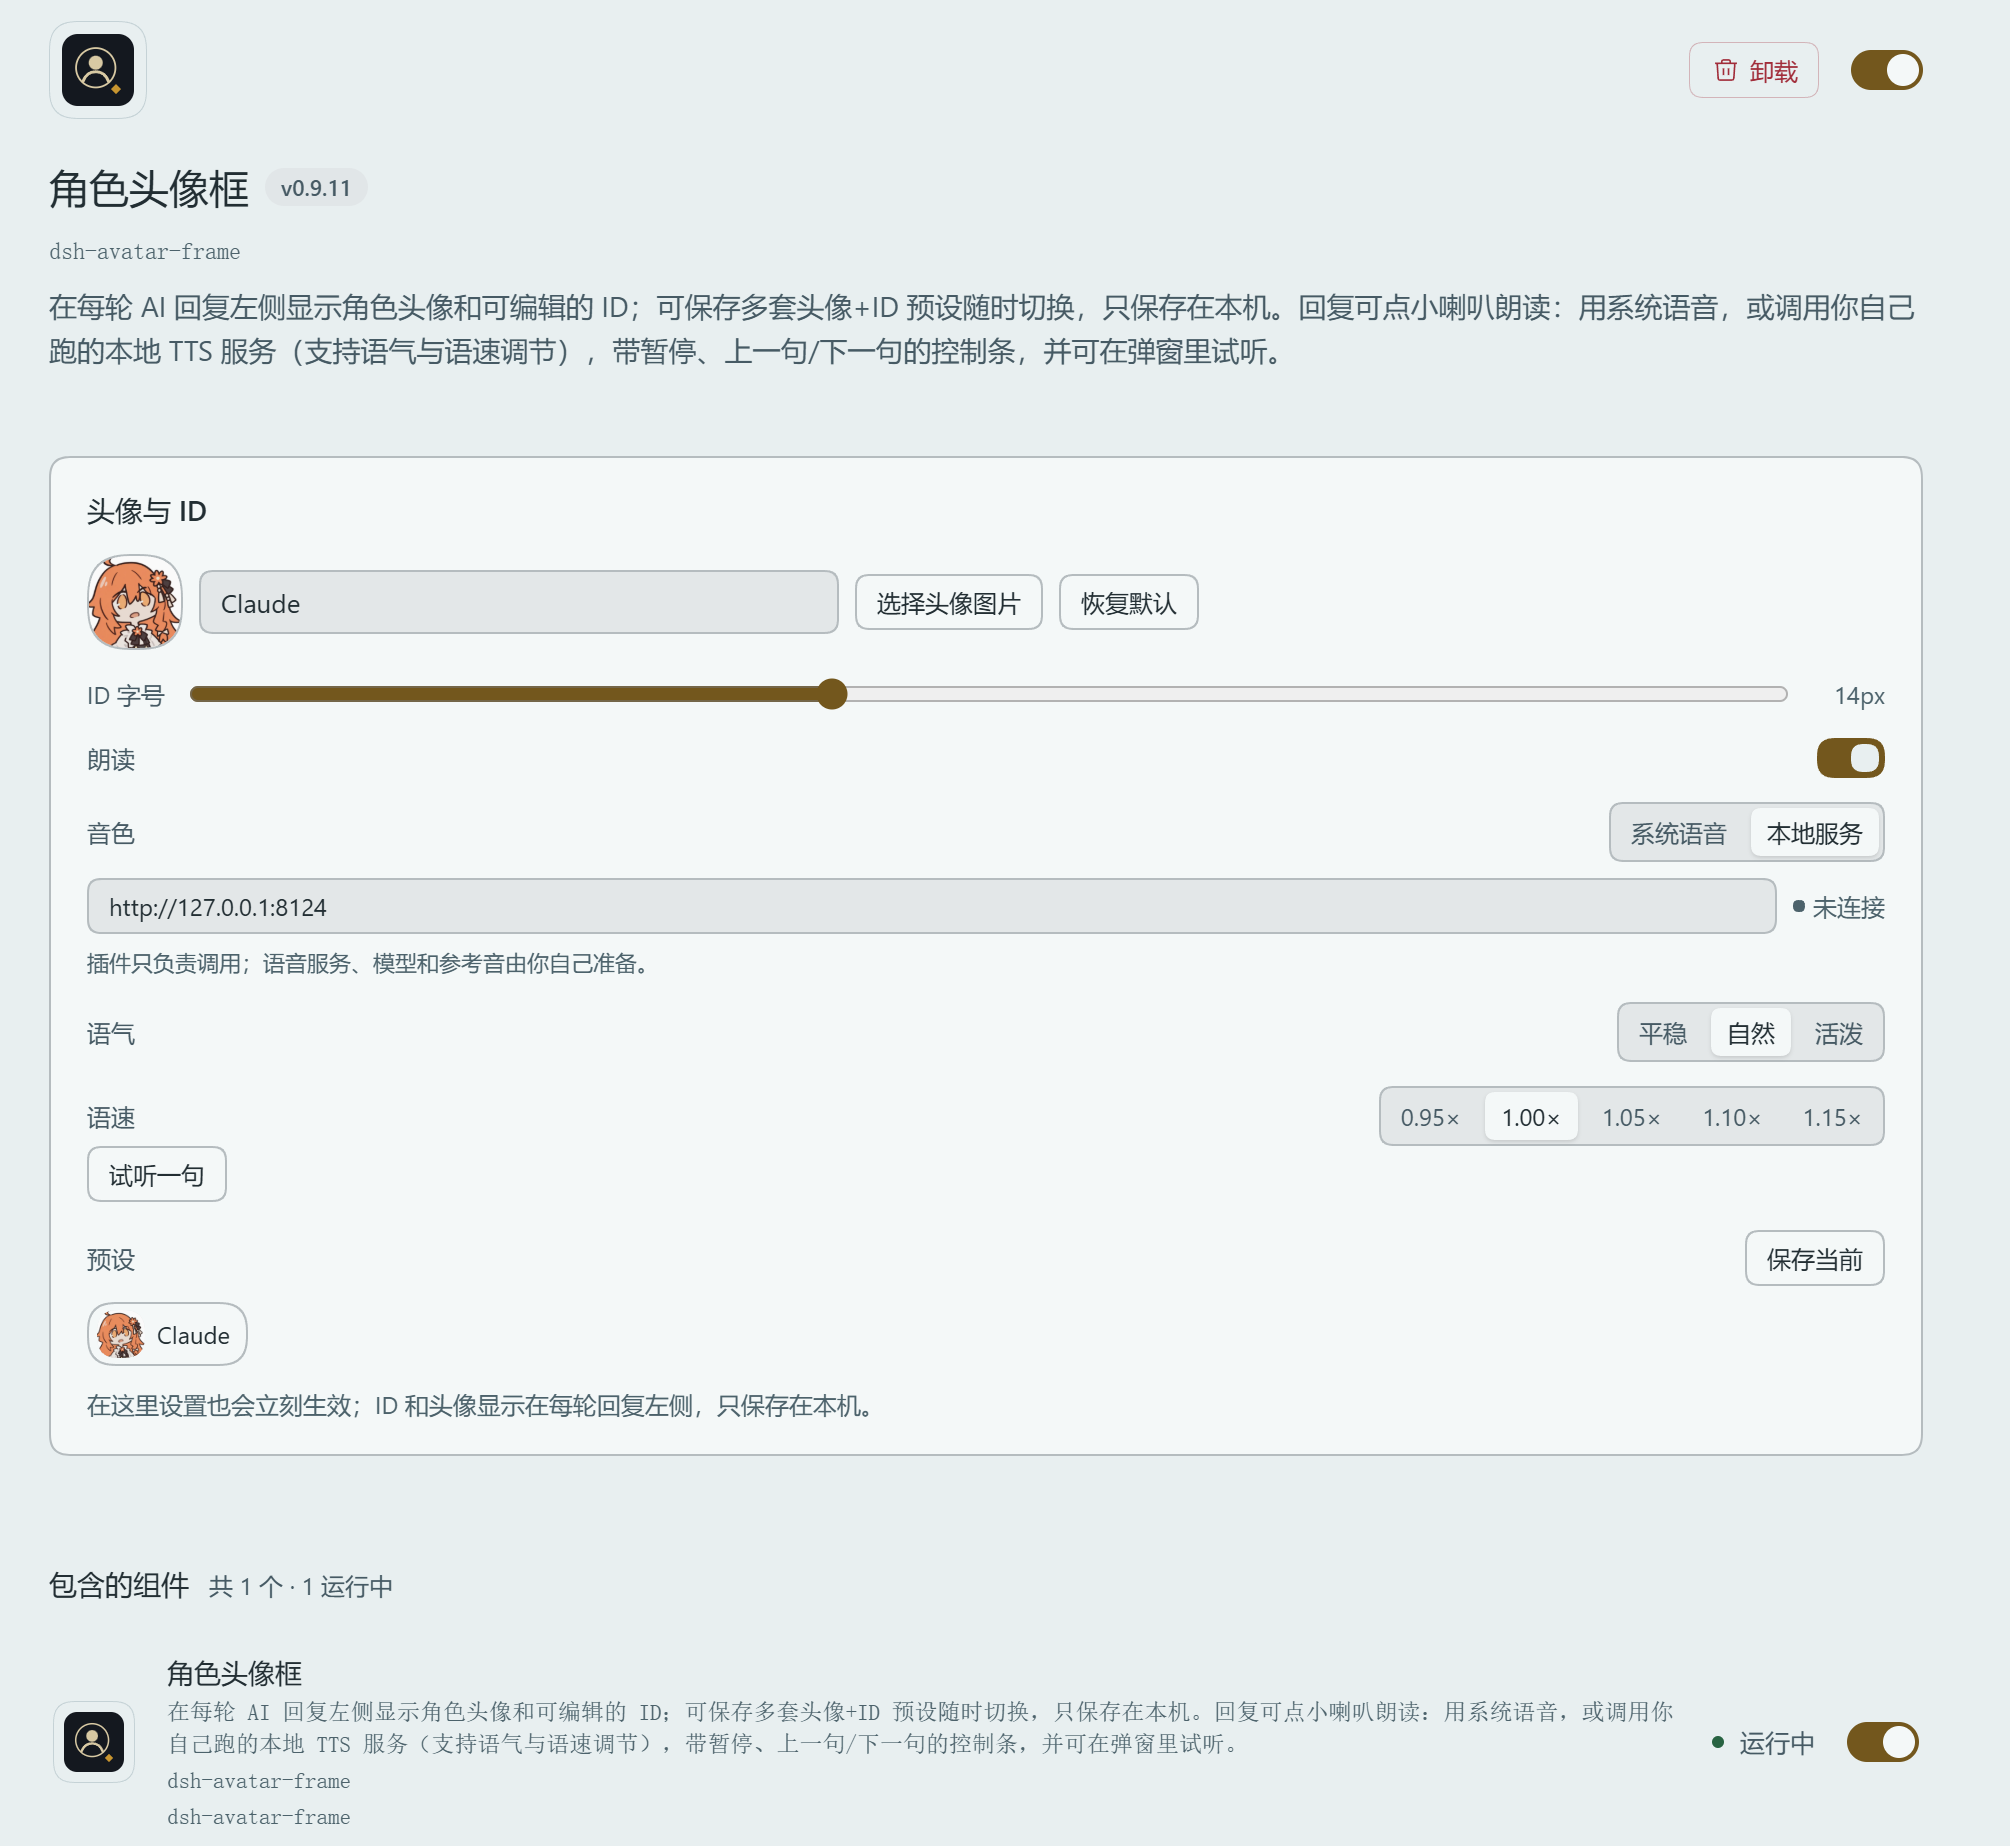
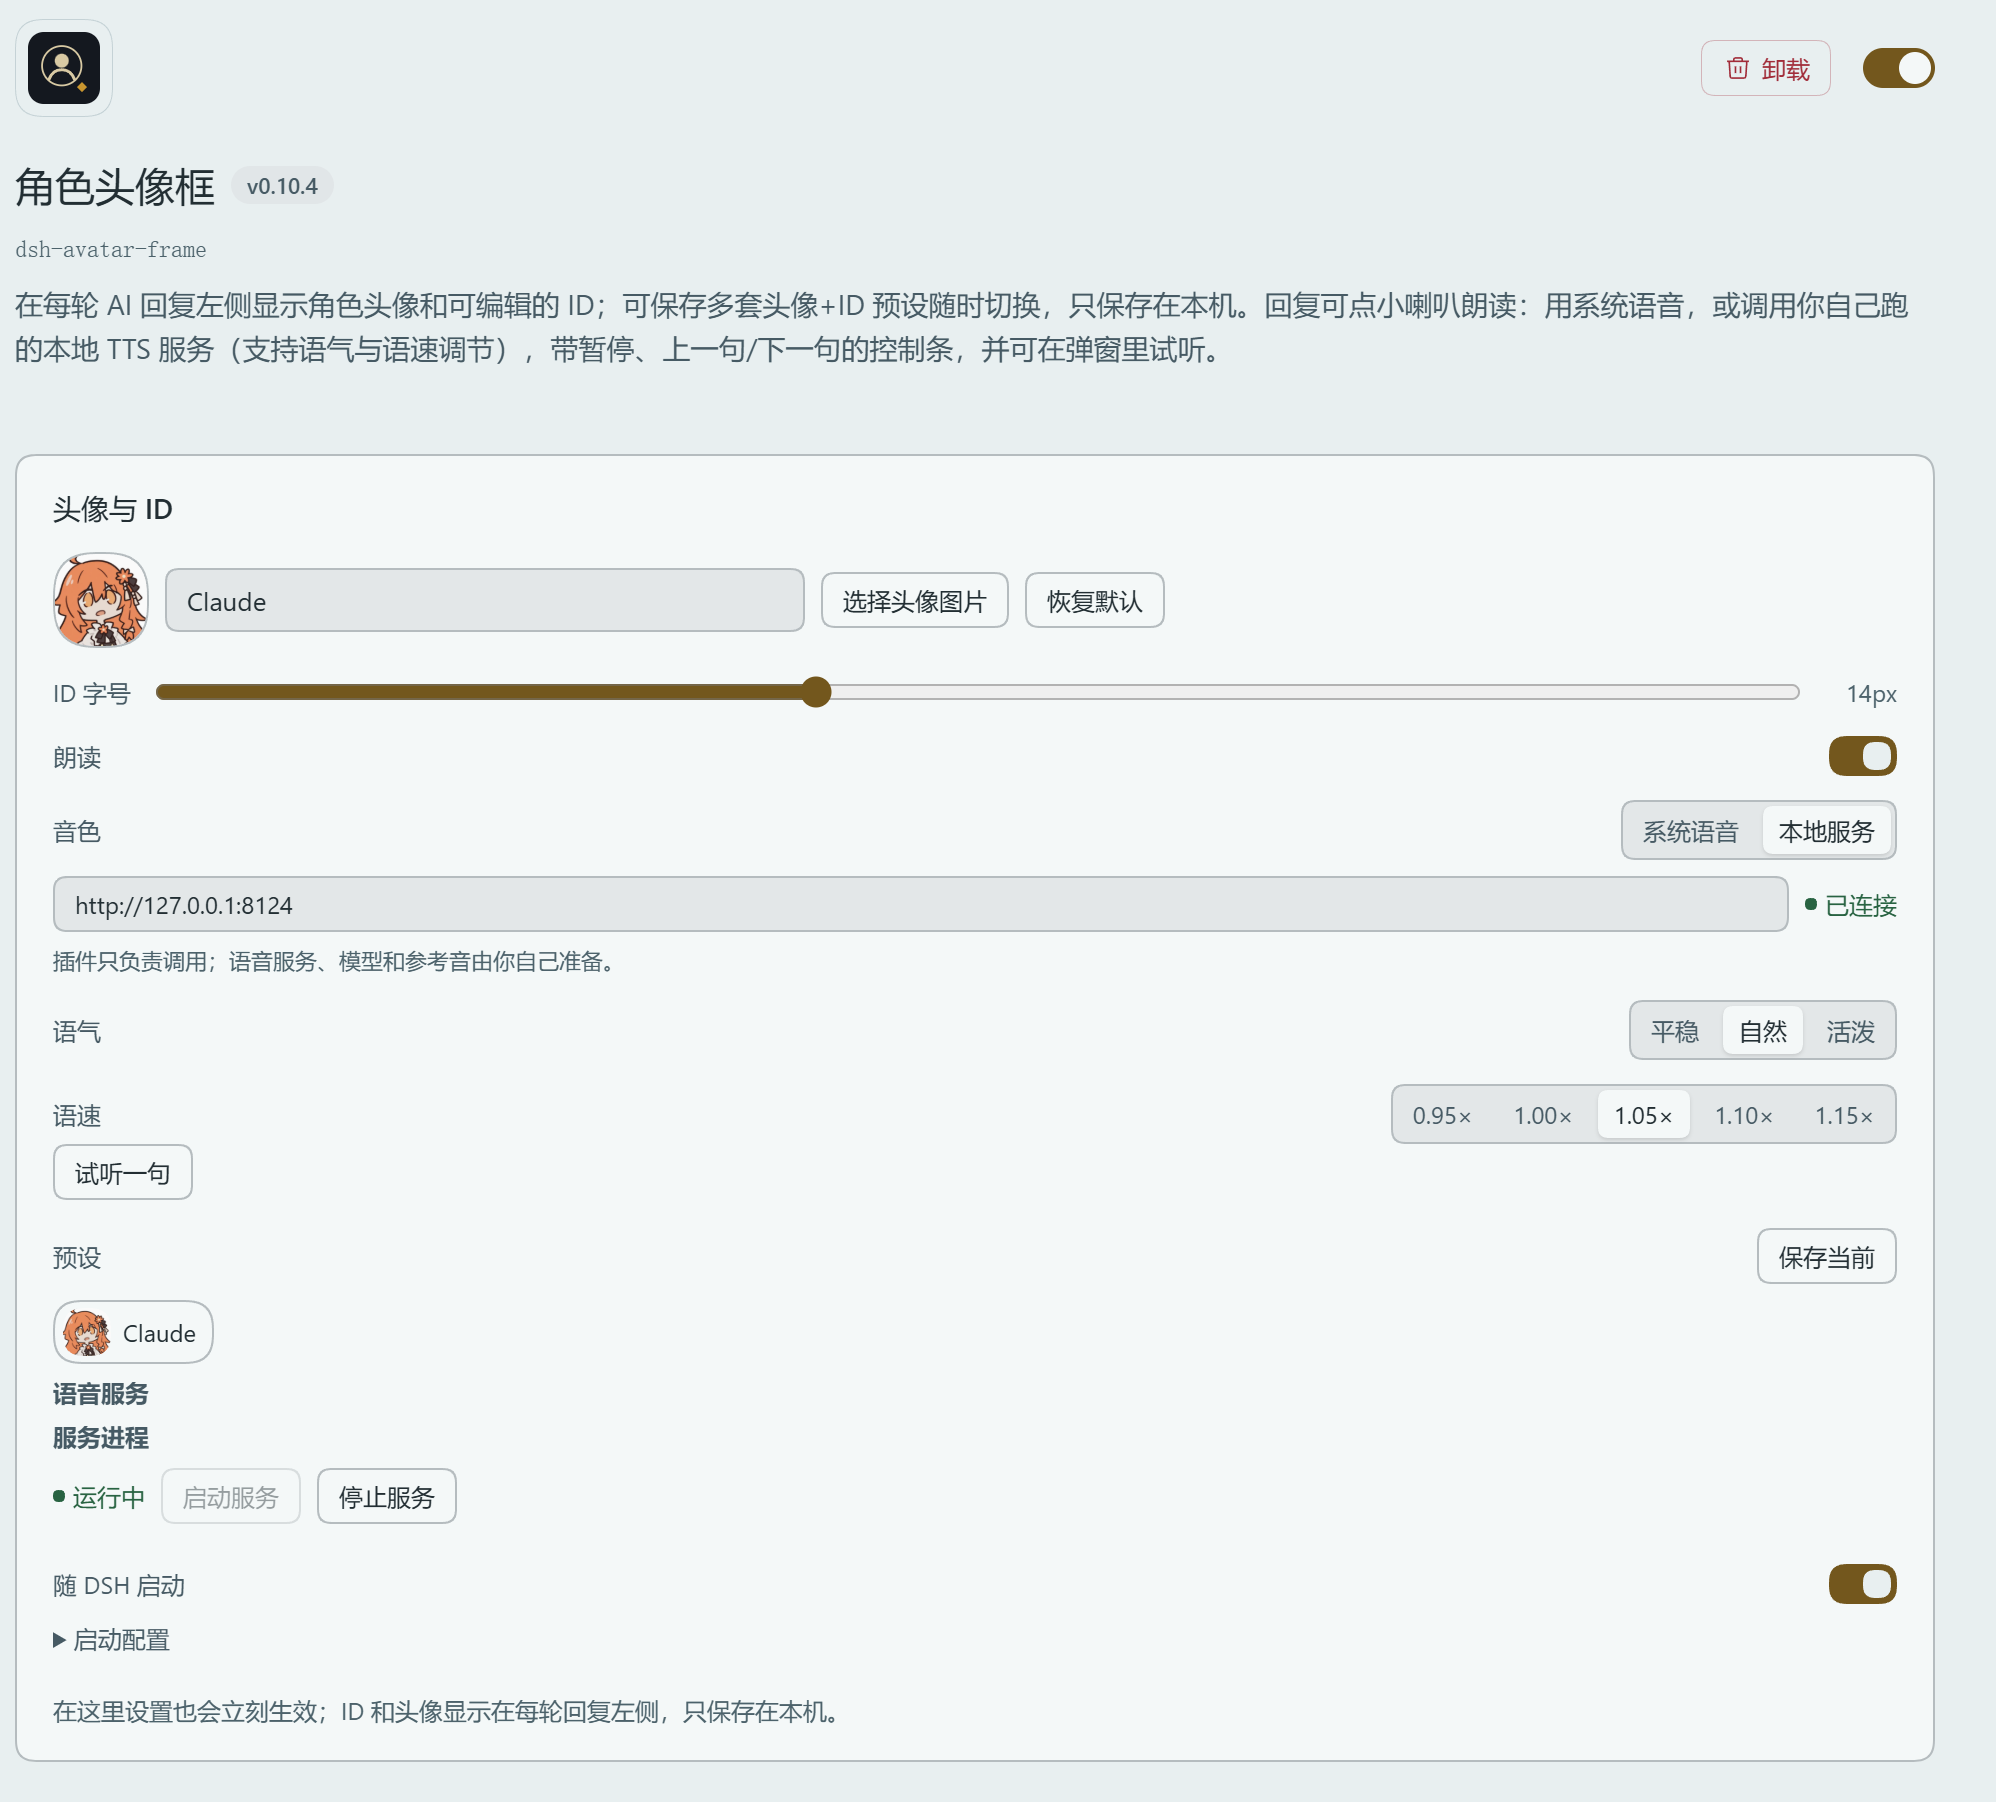
docs: refresh the detail-page screenshot and add the settings page
- bundle.png 更新为含语音服务区块的详情页
- settings.png 新增「设置 → 角色头像」整页
- README 引用与截图目录说明同步

diff --git a/README.md b/README.md
@@ -50,6 +50,8 @@ git clone https://github.com/vioeveann/dsh-avatar-frame.git
 
 然后同上，把插件管理指向克隆下来的目录。
 
+![插件详情页](docs/images/bundle.png)
+
 ## 使用
 
 1. 点任意一轮回复左侧的**头像**，或「已完成」那一行的 **ID**，打开设置面板；
@@ -136,7 +138,7 @@ POST /tts
 
 同一个浏览器的多个窗口之间会同步。换电脑、清缓存会丢，插件没有云同步。
 
-![插件详情页](docs/images/bundle.png)
+![设置 → 角色头像](docs/images/settings.png)
 
 ## 已知限制
 

diff --git a/docs/images/README.md b/docs/images/README.md
@@ -7,7 +7,8 @@
 | `row.png` | 一条回复左侧的头像 + ID，连同「已完成，用时 …」那一行 |
 | `bar.png` | 朗读时小喇叭右侧的控制条 |
 | `panel.png` | 点头像打开的面板（ID、字号、朗读、引擎、语气、语速、预设） |
-| `bundle.png` | 插件详情页（v0.9.11，含新的插件描述） |
+| `settings.png` | 设置 → 角色头像整页（含语音服务、诊断） |
+| `bundle.png` | 插件详情页（含语音服务区块） |
 
 可选，有更好：
 
